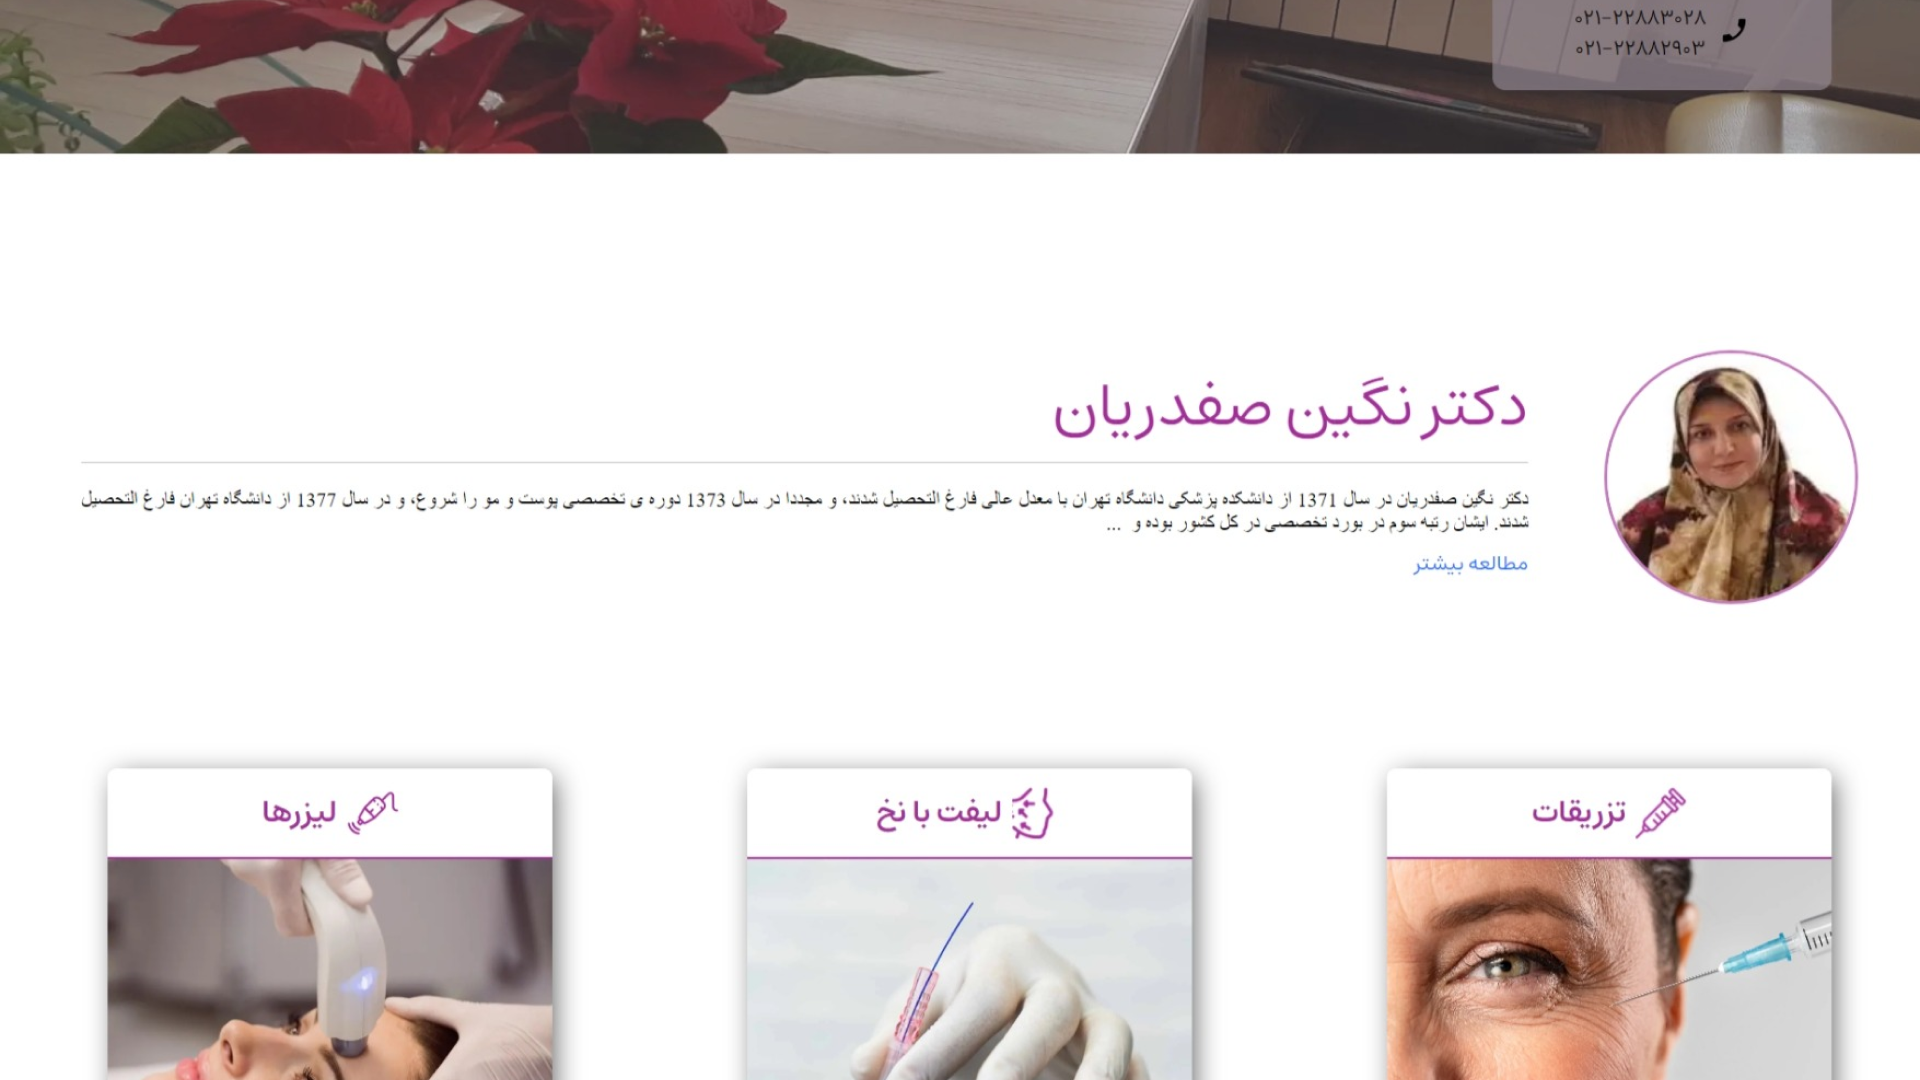
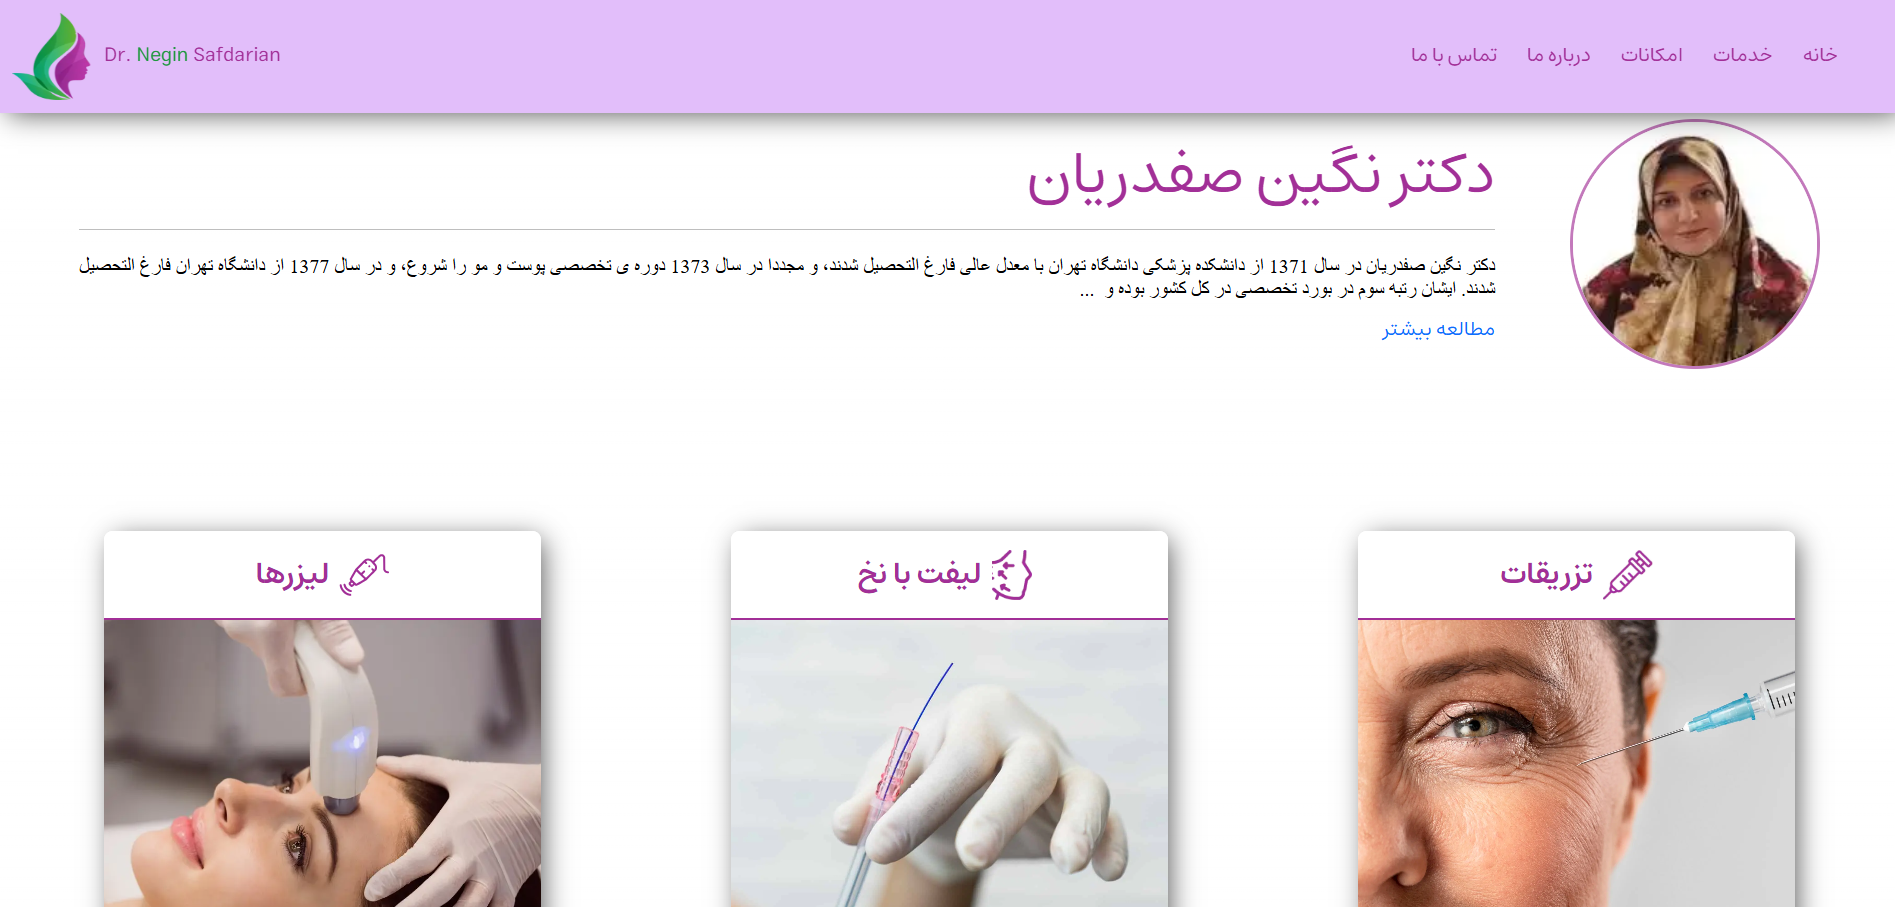
fixed dermatology clinic link

diff --git a/pages/projects/[slug].js b/pages/projects/[slug].js
@@ -15,11 +15,11 @@ export default function projectslug() {
             description: "I designed high-fidelity pages for Dr. Negin Safdarian's clinic using Figma, followed by developing a responsive website with Next.js and Material UI. The site is optimized for SEO with semantic HTML and server-side rendering (SSR), ensuring faster load times and enhanced search engine visibility.",
             link: "https://www.neginsafdarian.com",   // broken url 
             image: dr_safdarian,
-            category: "code",
+            category: "code & design",
             skills: ["Figma", "Next.js", "Material UI"],
             date: "April 2023",
             slug: "dr-safdarian-clinic",
-            designLink: "https://www.figma.com/file/your-figma-link" // replace with your Figma link or screenshots
+            // designLink: "https://www.figma.com/file/your-figma-link" // replace with your Figma link or screenshots
         },
         {
             title: "Climate App Design",
@@ -61,14 +61,7 @@ export default function projectslug() {
                                 CHANGED PART: Disabled Live Preview button with caption
                                 ---------------------------- */}
                             {project.link && project.title === "Dr Safdarian Clinic" ? (
-                                <div className="live-preview-wrapper">
-                                    <button className="disabled">
-                                        Live Preview (Unavailable)
-                                    </button>
-                                    <p className="caption">
-                                        Live demo temporarily unavailable due to Iran internet blackout.
-                                    </p>
-                                </div>
+                                project.link && <a target="_blank" rel="noopener noreferrer" href={project.link}>Live Preview</a>
                             ) : (
                                 project.link && <a target="_blank" rel="noopener noreferrer" href={project.link}>Live Preview</a>
                             )}

diff --git a/pages/projects/index.js b/pages/projects/index.js
@@ -34,12 +34,14 @@ export default function projects() {
         if (selectedCategory === 'all') {
             setFilteredProjects(projects)
         } else if (selectedCategory === 'code') {
-            setFilteredProjects(projects.filter(project => project.category === 'code'))
+            setFilteredProjects(projects.filter(project => project.category.includes('code')))
         }
         else if (selectedCategory === 'design') {
-            setFilteredProjects(projects.filter(project => project.category === 'design'))
+            setFilteredProjects(projects.filter(project => project.category.includes('design')))
         }
     }, [selectedCategory])
+
+    console.log(filteredProjects)
 
 
     return <>
